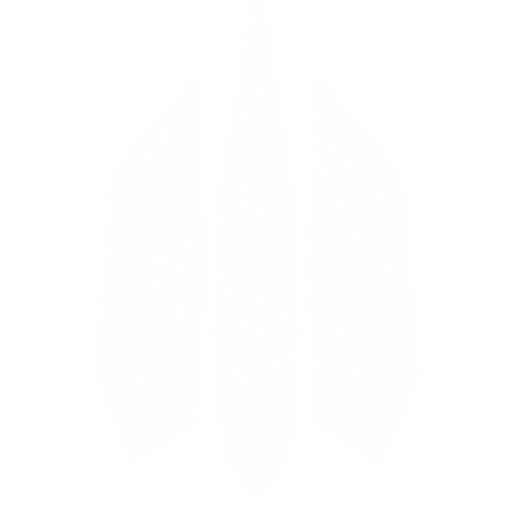
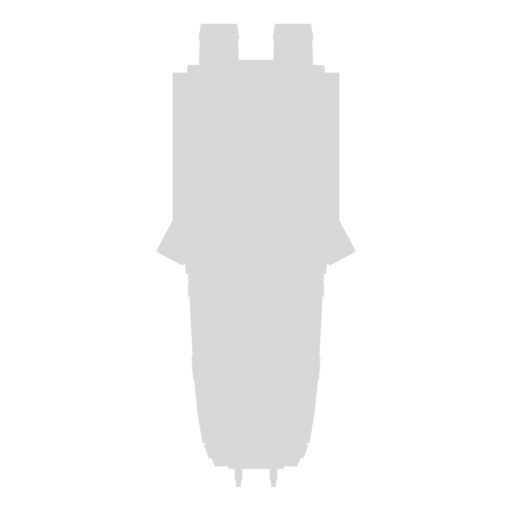
art: 玩家机与图标换成 Polyfork 低模资源库机体（v0.20.0）
- 新增 artgen/blender/polyfork_ship.py：导入资源库 FBX → 正交顶视渲 512² 精灵，
  共用 fit_to_contract / _mask / 外发光 / check_art，ShipArt 契约与 C# 全不动
- 主装甲按「世界面积 × 饱和度」识别（按面数会挑到深灰机体 plating），
  按武器线染成青/玫/金，trim 同色系亮一档
- 低模压高光：曝光 -0.55、key/rim 0.7/0.35、粗糙 0.82、Specular 0.15；外发光 0.5→0.34
- 图标同步重出，提亮 16%→4%
- 边界：敌机/Boss/弹体/僚机/箱子仍是硬表面风格（库中暂无对应模型）
- 版本 0.20.0 / code 25，门禁 434 条

Changed region(s): [[0.3125, 0.0312, 0.6875, 0.9688]]

diff --git a/artgen/blender/polyfork_ship.py b/artgen/blender/polyfork_ship.py
@@ -1,0 +1,129 @@
+#!/usr/bin/env python3
+# -*- coding: utf-8 -*-
+"""
+把 Polyfork 的低模战机（interceptor）渲成玩家的三套精灵（v0.20.0）。
+
+与 gen_art.py 的区别：造型不是我们程序化建的，而是导入资源库的 FBX，
+所以这里只做四件事：导入 → 按武器线改主装甲色 → 压曝光（红色低模在我们的
+布光下会过曝成粉白）→ 走同一套 fit/渲染/契约。
+"""
+import bpy
+import math
+import os
+import sys
+
+sys.path.insert(0, os.path.dirname(os.path.abspath(__file__)))
+import gen_art as G
+
+SRC = r"D:/V-Coding/.blender-setup/polyfork/interceptor-9d2289.fbx"
+OUT = os.path.join(os.path.dirname(os.path.abspath(__file__)), "out", "polyfolk_player")
+
+# 三条线的主色（与 GameConfig.LineDef 的 Tint 一致）
+ACCENTS = {
+    "player_pulse": (0.207, 0.878, 0.784),   # teal
+    "player_prism": (1.000, 0.360, 0.541),   # rose
+    "player_swarm": (1.000, 0.760, 0.294),   # gold
+}
+
+
+def saturated_materials(objs):
+    """
+    按「世界面积」找有色的装甲材质（返回从大到小）。
+    只看面数会挑到深灰机体 plating（1680 面）；真正的主装甲是深红 hull（472 面但面积最大）。
+    灰色件饱和度接近 0，直接排除。
+    """
+    area, sat = {}, {}
+    for ob in objs:
+        mw = ob.matrix_world
+        for p in ob.data.polygons:
+            if not ob.data.materials:
+                continue
+            m = ob.data.materials[min(p.material_index, len(ob.data.materials) - 1)]
+            if m is None:
+                continue
+            area[m.name] = area.get(m.name, 0.0) + p.area * (mw.to_scale().x ** 2)
+    for name in area:
+        mat = bpy.data.materials.get(name)
+        s0 = 0.0
+        if mat is not None and mat.use_nodes and not any(
+                x.type == 'TEX_IMAGE' for x in mat.node_tree.nodes):
+            for b in (x for x in mat.node_tree.nodes if x.type == 'BSDF_PRINCIPLED'):
+                r, g, b2, _ = b.inputs["Base Color"].default_value
+                mx, mn = max(r, g, b2), min(r, g, b2)
+                s0 = (mx - mn) / mx if mx > 1e-4 else 0.0
+        sat[name] = s0
+    names = [n for n in area if sat.get(n, 0.0) > 0.30]
+    names.sort(key=lambda n: -area[n])
+    print("MATS", [(n, round(area[n], 2), round(sat[n], 2)) for n in names[:4]])
+    return names
+
+
+def _set_color(mat, color):
+    if mat is None or not mat.use_nodes:
+        return
+    if any(x.type == 'TEX_IMAGE' for x in mat.node_tree.nodes):
+        return
+    for bsdf in (x for x in mat.node_tree.nodes if x.type == 'BSDF_PRINCIPLED'):
+        bsdf.inputs["Base Color"].default_value = (*color, 1.0)
+        # 低模的看点是大色块 + 硬转折，不是高光；粗糙度拉高、镜面压低，
+        # 否则平面一被灯打到就整片泛白，低模的"块面感"全没了
+        bsdf.inputs["Roughness"].default_value = 0.82
+        if "Specular IOR Level" in bsdf.inputs:
+            bsdf.inputs["Specular IOR Level"].default_value = 0.15
+
+
+def recolor(objs, accent):
+    names = saturated_materials(objs)
+    if not names:
+        return
+    _set_color(bpy.data.materials.get(names[0]), accent)
+    for extra in names[1:]:                     # 亮一档的同色系（原来 trim 的红）
+        _set_color(bpy.data.materials.get(extra),
+                   tuple(min(1.0, c * 1.18 + 0.05) for c in accent))
+    print("RECOLOR", names[:2], "->", [round(c, 2) for c in accent])
+
+
+def load_any(path):
+    if path.lower().endswith((".fbx",)):
+        bpy.ops.import_scene.fbx(filepath=path)
+    else:
+        bpy.ops.import_scene.gltf(filepath=path)
+    return [o for o in bpy.context.scene.objects if o.type == 'MESH']
+
+
+def tone_down_for_bright_hull():
+    """红色低模在 420W 轮廓光下会直接过曝，整体降一档曝光 + 削轮廓光。"""
+    sc = bpy.context.scene
+    sc.view_settings.exposure = -0.55
+    for name, k in (("Rim", 0.35), ("Key", 0.7), ("Under", 0.45)):
+        ob = bpy.data.objects.get(name)
+        if ob is not None and ob.type == 'LIGHT':
+            ob.data.energy *= k
+
+
+def render_one(asset, accent):
+    G.reset_scene()
+    G.setup_render(96)
+    G.setup_world()
+    G.setup_camera()
+    G.setup_lights()
+    tone_down_for_bright_hull()
+
+    objs = load_any(SRC)
+    recolor(objs, accent)
+    G.normalize(objs, radius=G.ART_EXTENT * G.VIEW)
+    G.fit_to_contract(objs, OUT, asset, preview=160)
+
+    G.render_to(os.path.join(OUT, asset + ".png"), 512)
+    G.set_materials(objs, G.mat_mask())
+    G.render_to(os.path.join(OUT, asset + "_mask.png"), 512)
+
+
+def main():
+    os.makedirs(OUT, exist_ok=True)
+    for asset, accent in ACCENTS.items():
+        render_one(asset, accent)
+
+
+if __name__ == "__main__":
+    main()

diff --git a/Assets/Editor/BuildScript.cs b/Assets/Editor/BuildScript.cs
@@ -210,8 +210,8 @@ namespace AuroraRift.EditorTools
         {
             PlayerSettings.companyName = "sctale";
             PlayerSettings.productName = "Aurora Rift";
-            PlayerSettings.bundleVersion = "0.19.5";
-            PlayerSettings.Android.bundleVersionCode = 24;
+            PlayerSettings.bundleVersion = "0.20.0";
+            PlayerSettings.Android.bundleVersionCode = 25;
             PlayerSettings.SetApplicationIdentifier(NamedBuildTarget.Android, "com.sctale.spacefighter");
             PlayerSettings.defaultInterfaceOrientation = UIOrientation.Portrait;
             PlayerSettings.allowedAutorotateToPortrait = true;

diff --git a/artgen/gen_icon.py b/artgen/gen_icon.py
@@ -109,7 +109,7 @@ def build():
     ship = Image.open(SHIP).convert("RGBA")
     # 3D 机体的装甲很暗，压在暗底板上小尺寸会像"挖了个洞"：图标里单独提亮一点
     sr, sg, sb, sa = ship.split()
-    lift = lambda v: min(255, int(v * 1.16 + 10))
+    lift = lambda v: min(255, int(v * 1.04 + 4))   # 低模机体本身够亮，别再加 16%
     ship = Image.merge("RGBA", (sr.point(lift), sg.point(lift), sb.point(lift), sa))
     target_h = int(N * 0.60)
     scale = target_h / ship.height

diff --git a/Assets/Scripts/UI/Hud.cs b/Assets/Scripts/UI/Hud.cs
@@ -333,7 +333,7 @@ namespace AuroraRift
             }
 
             Txt(_tiny, Center(w, RefH - bottom - 24f, 900f, 24f),
-                Sp("v0.19.5") + "   ·   精准模式 / 擦弹经济 / 过关奖励 / 蓄能换线", Dimc);
+                Sp("v0.20.0") + "   ·   精准模式 / 擦弹经济 / 过关奖励 / 蓄能换线", Dimc);
         }
 
         /// <summary>菱形环：外菱形 + 挖空内菱形（GUI.matrix 旋转在缩放坐标系下不可靠，改用嵌套）。</summary>

diff --git a/artgen/blender/post_glow.py b/artgen/blender/post_glow.py
@@ -61,7 +61,7 @@ ACCENT = {
 }
 
 # 大块机体光晕弱一点、小而快的敌机强一点，避免满屏糊成一片
-STRENGTH = {"boss_": 0.42, "player_": 0.5, "enemy_": 0.78,
+STRENGTH = {"boss_": 0.42, "player_": 0.34, "enemy_": 0.78,
             "bullet_": 0.9, "drone_": 0.55, "crate_": 0.62}
 
 

diff --git a/CHANGELOG.md b/CHANGELOG.md
@@ -1,5 +1,35 @@
 # 更新记录
 
+## v0.20.0 — 2026-11-04
+
+开始接入 **Polyfork 低模资源库**：玩家机体换成库里的 interceptor，
+图标同步重出。
+
+### 做法（`artgen/blender/polyfork_ship.py`）
+
+- 导入资源库的 FBX（21 个网格、7 套材质），正交顶视渲成 512² 精灵，
+  仍走同一套 `fit_to_contract` / `_mask` / 外发光，`ShipArt` 契约不变、C# 零改动。
+- **主装甲自动识别**：按「世界面积 × 底色饱和度」挑材质。只按面数会挑到深灰机体
+  `plating`（1680 面），真正的装甲是深红 `hull`（472 面但面积最大）；灰色件饱和度为 0，
+  加权后自然落选。挑中后按武器线染成青 / 玫 / 金，并把 `trim` 染成同色系亮一档。
+- **低模要平面，不要高光**：原布光（170W key + 420W rim）会把平面打到整片泛白，
+  低模的块面感全没了。对这个资源把曝光压到 −0.55、key/rim 降到 0.7/0.35、
+  粗糙度 0.82、Specular 0.15；外发光强度 0.5 → 0.34（亮色机体不需要那么强的光晕）。
+- 图标：`gen_icon.py` 直接读新机体，提亮从 16% 降到 4%（低模本来够亮）。
+
+### 现状与边界
+
+资源库目前只有这一台 interceptor，所以**这一版只换了玩家机与图标**；
+12 种敌机、3 台 Boss、弹体、僚机、补给箱仍是上一版的硬表面风格。
+要让整屏统一成低模，需要资源库里再补敌机/Boss 级模型（或我用现有管线把敌机重做成平面着色）。
+
+### 验收
+
+- `check_art.py` 3/3（画布 512 / 居中 / 半径比 / mask IoU）。
+- 安卓真机：安装开打，`E/Unity` = 0；截图 `docs/shots/android_v020_play.png`。
+- 包体 28,182,456 → **28,213,696** 字节。
+
+
 ## v0.19.5 — 2026-11-03
 
 ### Boss 被秒杀（三个叠加原因）

diff --git a/docs/RELEASE-v0.20.0.md b/docs/RELEASE-v0.20.0.md
@@ -1,0 +1,35 @@
+# v0.20.0 — 接入 Polyfork 低模资源库（玩家机 + 图标）
+
+资源库里的 **interceptor** 已经接进管线，玩家机三套涂装都换成它；图标同步重出。
+其余机体保持上一版风格——库里目前只有这一台战机。
+
+## 管线（`artgen/blender/polyfork_ship.py`）
+
+导入 FBX → 正交顶视 → 渲 512² 精灵 + `_mask` → 外发光 → 契约验收，
+和程序化机体共用同一套 `fit_to_contract` / `check_art`，`ShipArt` 约定与 C# 全部不动。
+
+### 三个必要调整
+
+1. **主装甲要按面积找，不是按面数**：深灰机体 `plating` 有 1680 面，
+   但真正的装甲是深红 `hull`（472 面、面积最大）。按「面积 × 饱和度」加权才能挑对；
+   灰色件饱和度为 0，自动排除。挑中后按武器线染成青 / 玫 / 金，`trim` 染成亮一档。
+2. **低模要压高光**：原布光会把平面打到整片泛白、块面感消失。
+   这个资源曝光 −0.55、key/rim 0.7/0.35、粗糙度 0.82、Specular 0.15。
+3. **外发光降强度**：亮色低模不需要 0.5 的光晕，降到 0.34，否则轮廓被糊掉。
+
+图标：`gen_icon.py` 读新机体，提亮 16% → 4%。
+
+## 边界
+
+| 已换 | 未换 |
+|---|---|
+| 玩家三线（pulse / prism / swarm）、应用图标 | 12 种敌机、3 台 Boss、弹体、僚机、补给箱 |
+
+要整屏统一低模，需要资源库再补敌机/Boss 模型；或者我用现有程序化管线把敌机
+重做成「平面着色 + 倒角块面」的低模语言，风格也能对齐（工作量约一轮）。
+
+## 验收
+
+- `check_art.py` 3/3 通过。
+- 安卓真机 1080×1920：安装开打，`logcat` 中 `E/Unity` = 0。
+- 包体 28,182,456 → 28,213,696 字节。

diff --git a/README.md b/README.md
@@ -3,7 +3,7 @@
 把网页版《太空战斗机 · Aurora Rift》用 Unity 6 重做的竖屏弹幕射击。Android APK 优先，桌面版用于快速验证与截图。
 
 <p>
-  <img src="docs/shots/android_v0195_play.png" width="290" alt="战斗 HUD（Blender 重制机体与弹体）" />
+  <img src="docs/shots/android_v020_play.png" width="290" alt="战斗 HUD（Polyfork 低模玩家机）" />
   <img src="artgen/icon_preview.png" width="290" alt="应用图标（3D 玩家机）" />
   <img src="docs/shots/art_pilot_compare.jpg" width="290" alt="旧手绘 / 纯 3D / 3D+外发光" />
 </p>
@@ -40,7 +40,7 @@
 
 到 [Releases](https://github.com/sctale/SpaceFighter-Unity/releases/latest) 下载：
 
-- `AuroraRift-Unity-v0.19.5.apk`（Android Debug 签名，安装时允许“未知来源”即可）
+- `AuroraRift-Unity-v0.20.0.apk`（Android Debug 签名，安装时允许“未知来源”即可）
 
 桌面版：`Builds/Windows/SpaceFighter.exe`（Unity 构建产物，本地生成）。
 
